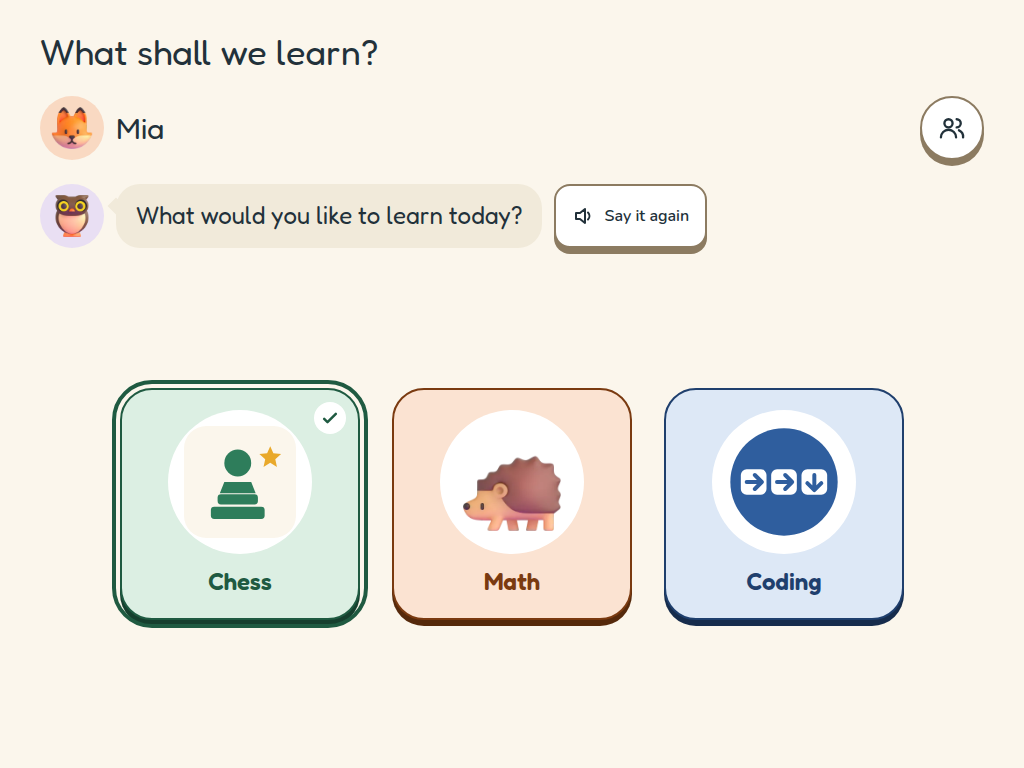
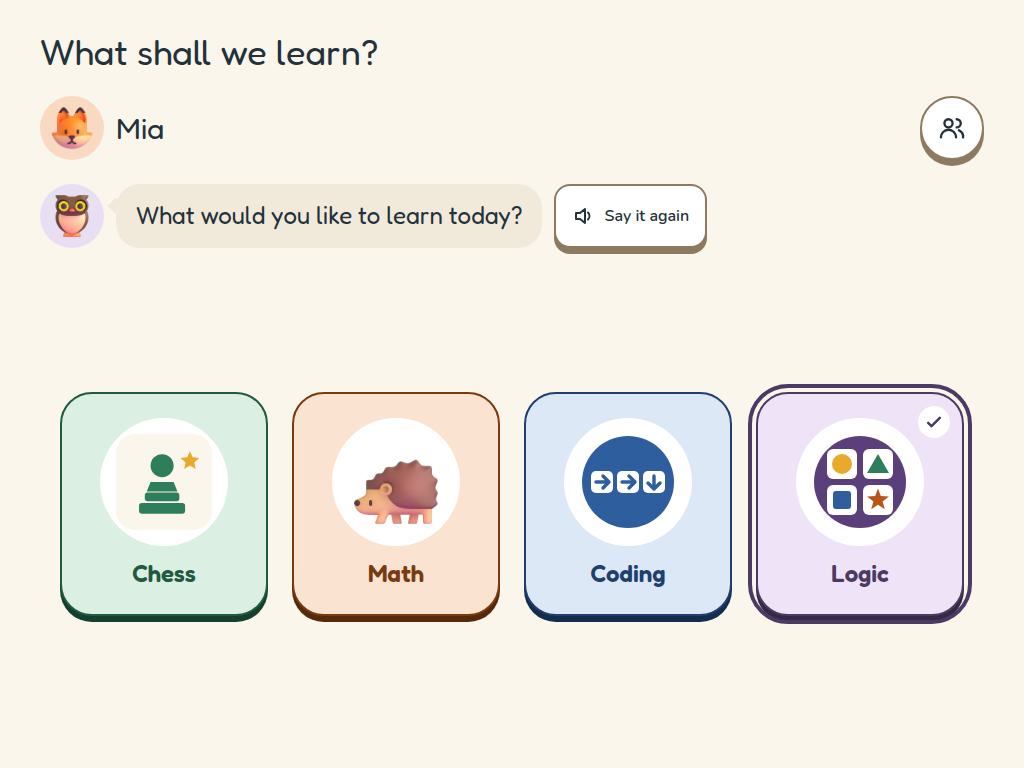
M14.13: release v1.3.0 prep — version 1.3.0, README Logic, release docs (#47)
* M14.13 c1: kids-learning version 1.3.0

Release prep for v1.3.0: apps/kids-learning/package.json version 1.2.0 -> 1.3.0 (shown in the parent area and on Home via __APP_VERSION__).
The Logic visual pass (1024 x 768 and 390 x 844, production build, seeded profile) is a scratch run; its findings go in the iteration report.

Claude-Session: https://claude.ai/code/session_013kadCxdsuG7hpRj6TXfkEk

* M14.13 c2: README Logic row and screenshots

Subject table: Logic row = W1-W3 (14 lessons) with its kinds and three world bosses. Screenshots (1024 x 768, production build, seeded
mid-progress profile): new logic.png (pattern exercise with its shape row) and sudoku.png (6 x 6 mid-play with pencil notes), retaken hub.png
(four subjects); both new ones in the README screenshots table.

Claude-Session: https://claude.ai/code/session_013kadCxdsuG7hpRj6TXfkEk

* docs: m14.13 release status, follow-ups F18–F21, validation row

Claude-Session: https://claude.ai/code/session_013kadCxdsuG7hpRj6TXfkEk

---------

Changed region(s): [[0.0312, 0.4688, 0.9375, 0.8438], [0.9375, 0.5312, 0.9688, 0.7812]]

diff --git a/docs/validation.md b/docs/validation.md
@@ -179,3 +179,4 @@ Full detail for any row (deviations, exact fixes, screenshots reviewed) is in th
 | `m14.10` | 2026-10-05 | Logic World 2 "Sort Shore": logic opts in to the platform `group` kind; 6 templates (`odd-one`, `odd-rule`, `sort-boxes`, `carroll`, `venn` over shapes or an animal fact table, `line-up`) + 4 authored transitive items; 5 lessons (`cls-odd`, `cls-rule`, `cls-boxes`, `cls-circles`, `cls-line-up`) + Sorting Sprint world boss; rank Shore Sorter, badge; platform `group` UI: Venn board ≤ 46 % of the screen height, pool one row up to 8 cards from 768 px; lead: `lu-true` as a statement | F L T U B Z C V E S | logic 948 tests; +41 clips (1449 total, 17.7 MB); logic chunk 21.6 KB; e2e full 165 passed (agent run); open: F15 (prompt-less choice layout), F16 (Venn pool below the fold on a phone) |
 | `m14.12` | 2026-10-05 | Follow-up F15: a card-kit `choice` without a prompt (logic `odd-one`, `odd-rule` noise items, `lu-tallest` / `lu-shortest`; math `bonds-pair`; template `s1-05`) draws large option tiles centred between the instruction and the Hint row (`ChoiceOptions` `size: 'large'`, `centredPanelBody`); choices with a stimulus unchanged; M14 re-cut: release prep moves to `m14.13` | F L T U B Z E | platform-web 571 tests; 4 tiles one row at 1024 × 768 (228 × 156 px), 2 × 2 at 390 × 844 (175 × 140 px), no scroll; e2e logic + math mountain 15 / 15 |
 | `m14.11` | 2026-10-05 | Logic World 3 "Grid Puzzles": sudoku templates `sdk-last`, `sdk-place`, `sdk-number`, `sdk-six` (generated on the lessons' allowed sets, guided items ring their target cell); 7 drawn 5 × 5 pictures (snake, rabbit, frog, owl, turtle, cat, mouse); 5 lessons + Sudoku Sprint world boss; rank Puzzle Solver, badge; picture reveal in a slot below the board; plan L10 (picture techniques by what the clue alone forces), L11 (only-place hints box first); scored sudoku sentences name no unmarked box / cell | F L T U B Z C V E S | logic 1101 tests; +53 clips (1502 total, 18.5 MB); logic chunk 27.0 KB (all three worlds); logic content build ≈ 0.6 s; e2e full 165 passed (agent run); open: picture cells 40 px at 390 × 844 (F17) |
+| `m14.13` | 2026-10-05 | Release prep `v1.3.0`: app version 1.3.0; README Logic row (W1–W3) + screenshots `logic.png`, `sudoku.png`, retaken `hub.png` (four subjects); visual pass of Logic at 1024 × 768 and 390 × 844 (102 screens each, seeded mid-progress); docs: CLAUDE.md status, roadmap, owner action (v1.3.0 tag after `m14.14`), follow-ups F18–F21 | F L T U B Z S | Tablet (1024 × 768) clean except the Sorting Sprint Venn round (66 px scroll, F16); phone items F16–F21 → `m14.14`. 🐭 / 🐱 render as outlines only in the sandbox's headless Chromium (font fallback) |

diff --git a/CLAUDE.md b/CLAUDE.md
@@ -55,7 +55,8 @@ Offline multi-subject learning app for children aged 8–9 (chess, math; coding 
 - Done: M11 = v1.0 (`m11.1`–`m11.9`, 2026-10-04): one app `apps/kids-learning` (chess + math demo), per-subject storage / backup v6, subjects hub, parent area per subject, card kit, template + `pnpm new-subject`. `v1.0.0` tag after the owner's `docs/release.md` §1 checks.
 - Done: M12 = v1.1 Coding (`m12.1`–`m12.7`, 2026-10-04): platform grid board, `@learn/subject-coding` (tiles, simulator, BFS solver, kinds program / predict / find-bug, editor + run animation), W1–W3 (13 lessons, 3 world bosses, 127 exercises). `v1.1.0` tag after the owner's checks.
 - Done: M13 = v1.2 Math (`m13.1`–`m13.15`, 2026-10-04): generated exercises (templates + seeds, build-time texts), misconception reasons, card voice, math on the card kit, kinds number-line / place-value / array, platform `duel` mode, W1–W3 (16 lessons, 3 world bosses incl. Race to 20 vs a bot). `v1.2.0` tag after the owner's checks.
-- Next: M14 Logic (v1.3): `docs/subjects/logic/plan.md` (refresh it against M13: generated puzzles = `generate:` templates, Nim / tic-tac-toe = `duel`). Follow-ups F1–F13: `docs/multi-subject.md` §4.1.
+- Done: M14 = v1.3 Logic (`m14.1`–`m14.14`, 2026-10-05): card shape tokens, platform `group` kind (row / Carroll / Venn, opt-in), `GridBoard` puzzle props, `@learn/subject-logic` (solvers, generator, `grid-fill` kind for sudoku and picture cross), W1–W3 (14 lessons, 3 world bosses: Pattern Train, Sorting Sprint, Sudoku Sprint), hub of four subjects. `v1.3.0` tag after the owner's checks.
+- Next (when the owner asks): playtests of Logic; follow-ups F1–F21 (`docs/multi-subject.md` §4.1); v1.4 ideas (Plan Ahead: Nim, tic-tac-toe with a draw-aware `duel`; `docs/subjects/logic/plan.md` §2); Store apps (M15), Chess paths (M16).
 - Live: https://enricoag1982.github.io/kidsLearning/ (deploy on every push to `master`; Pages source = GitHub Actions since 2026-10-04).
 - Local: `pnpm install` (also builds the content JSON) · `pnpm dev` · `pnpm test` (one package: `pnpm --filter @learn/<pkg> test`) · `pnpm test:slow` · `pnpm lint` · `pnpm typecheck` · `pnpm format:check` · `pnpm build && PW_CHROMIUM_PATH=/opt/pw-browsers/chromium pnpm test:e2e` (cloud sandbox browser path) · `pnpm size` · `pnpm compat` · `pnpm voice:check` (every subject's inventory vs the app's audio) · `pnpm voice:generate` (Kokoro; venv with `kokoro-onnx lameenc soundfile`) · `pnpm new-subject <id> "<Name>"` (`docs/adding-a-subject.md`).
 - Dev playgrounds (dev builds only): `/#board`, `/#exercises`, `/#lesson=<id>&view=<story|demo|boss|exercise id>`.

diff --git a/docs/multi-subject.md b/docs/multi-subject.md
@@ -89,6 +89,10 @@ Rules: `docs/retrospective.md` §9 (≤ 3–4 commits per agent run, lead decide
 | F15 | Prompt-less choice layout | a card-kit `choice` without a prompt (logic `odd-one`) draws small option tiles at the bottom with the board slot empty; options should fill the board slot (m14.10 visual pass) — fixed in `m14.12` |
 | F16 | Venn on a phone | the card pool of a Venn sits partly below the fold at 390 × 844 (one row of 3 visible) (m14.10 visual pass) |
 | F17 | Picture cross on a phone | 5 × 5 picture cells are 40 px at 390 × 844 (target 48): the lesson's board band is 302 px tall (m14.11 visual pass) |
+| F18 | Journey world tabs on a phone | with 3 worlds the tab strip scrolls sideways at 390 px and the current world's tab can sit off-screen (no auto-scroll) (m14.13 visual pass) |
+| F19 | Home on a phone | the subject Home is 992 px tall at 390 × 844: My Den is below the fold (all subjects) (m14.13 visual pass) |
+| F20 | Small drawn cards in group boxes | count clusters inside Carroll / Venn boxes are ≈ 11 px per token at 390 px (m14.13 visual pass) |
+| F21 | Tiny grid details on a phone | 6 × 6 pencil notes ≈ 9 px and the wrong-cell badge 6–11 px at 390 px (m14.13 visual pass) |
 
 ## 5. After v1.0
 
@@ -116,3 +120,4 @@ Rules: `docs/retrospective.md` §9 (≤ 3–4 commits per agent run, lead decide
 | v1.0.0 tag after release checks | Actions → Tag (`docs/release.md` §2) |
 | v1.1.0 tag after release checks (Coding) | Actions → Tag, `ref` = the `m12.7` merge commit |
 | v1.2.0 tag after release checks (Math) | Actions → Tag, `ref` = the `m13.15` merge commit |
+| v1.3.0 tag after release checks (Logic) | Actions → Tag, `ref` = the last M14 merge commit (`m14.14`, phone polish) |

diff --git a/docs/roadmap.md b/docs/roadmap.md
@@ -127,7 +127,7 @@ M5 run order (2026-09-25): `m5.1` ∥ `m5.4` → `m5.2` ∥ `m5.5` → `m5.3` la
 | M11 | Multi-subject app (`kidsLearning` v1.0) | One app hosting chess + math demo; generic platform kit (card kinds, template, `pnpm new-subject`); `docs/multi-subject.md` §4 (`m11.1`–`m11.9`), done 2026-10-04 |
 | M12 | Coding (`kidsLearning` v1.1) | Research + plan in `docs/subjects/coding/`; grid board, coding core / web, W1–W3 (13 lessons, 3 world bosses); `m12.1`–`m12.7`, done 2026-10-04 |
 | M13 | Math (`kidsLearning` v1.2) | W1–W3 (16 lessons, generated exercises, misconception reasons, duel boss); `docs/subjects/math/plan.md` §6 (`m13.1`–`m13.15`), done 2026-10-04 |
-| M14 | Logic (v1.3) | `docs/subjects/logic/` |
+| M14 | Logic (`kidsLearning` v1.3) | W1–W3 (14 lessons: patterns, sorting, grid puzzles; 3 world bosses); card shape tokens, platform `group` kind, `grid-fill` kind with solvers; `docs/subjects/logic/plan.md` §6 (`m14.1`–`m14.14`), done 2026-10-05 |
 | M15 | Store apps | Capacitor Android + iPad, native storage, store listings (was M11) |
 | M16 | Chess paths | Openings, Tactics, Checkmates & Endgames; Lichess puzzle import; path badges (was M12) |
 | v2 → M7 | Time controls + device sharing (offline, no server; owner 2026-09-25; iterations §3 `m7.x`; ships as `v2.0.0`) | Do: 5-min warning (app-level notice, calm screens only), limits per weekday, allowed hours; optional: Play vs Learning limits, holiday overrides, detailed time log. Sharing: merge rules + "Send to other device" file (share sheet) → import merges |

diff --git a/README.md b/README.md
@@ -10,7 +10,7 @@ small idea at a time through animal-themed lessons, mini-games and spoken instru
 | Chess | Basics (5 worlds, 23 lessons), computer opponent (5 levels), play vs a friend; 3 paths planned |
 | Math | W1–W3 (16 lessons): place value, mental math, times tables; number line, base-ten blocks, dot arrays; 3 world bosses (Number Train, Market Orders, Race to 20 vs a bot) |
 | Coding | W1–W3 (13 lessons): arrow steps, repeat loops, turns and jumps; 3 world bosses (Bug Squash, Fence Builder, Left-Right Rescue) |
-| Logic | Planned (v1.3) — [`docs/new-subjects.md`](docs/new-subjects.md) |
+| Logic | W1–W3 (14 lessons): patterns, sorting, grid puzzles; shape cards, Carroll and Venn boxes, sudoku 4 × 4 / 6 × 6, picture cross; 3 world bosses (Pattern Train, Sorting Sprint, Sudoku Sprint) |
 
 One install for the whole family: each child picks a subject after choosing their profile; progress, stars and badges are
 kept per subject, while profiles, the parent code, daily time limits and backups are shared. New subjects start from a
@@ -69,6 +69,10 @@ After the Basics, three paths are planned: **Openings**, **Tactics**, and **Chec
 | Math | Race to 20 |
 |---|---|
 | ![Math: building a number with blocks](docs/images/math.png) | ![Race to 20 against the Hedgehog](docs/images/race.png) |
+
+| Logic | Sudoku |
+|---|---|
+| ![Logic: what comes next in the pattern?](docs/images/logic.png) | ![Sudoku with pencil notes](docs/images/sudoku.png) |
 
 ## Run it yourself
 

diff --git a/docs/subjects/logic/plan.md b/docs/subjects/logic/plan.md
@@ -78,4 +78,5 @@ Re-cut 2026-10-04 (one concern per iteration, ≤ 4 commits):
 | `m14.10` | W2 Sort Shore + Sorting Sprint |
 | `m14.11` | W3 Grid Puzzles + Sudoku Sprint |
 | `m14.12` | Prompt-less card choice layout (follow-up F15, found in the `m14.10` visual pass): options fill the board slot as large tiles |
-| `m14.13` | Release `v1.3.0` |
+| `m14.13` | Release prep `v1.3.0` (version, README, visual pass) |
+| `m14.14` | Phone-layout polish from the `m14.13` visual pass (F16–F18, F20, F21: Venn fit, Journey tab scroll, picture-cross cells ≥ 48 px, card size in boxes, notes) |
